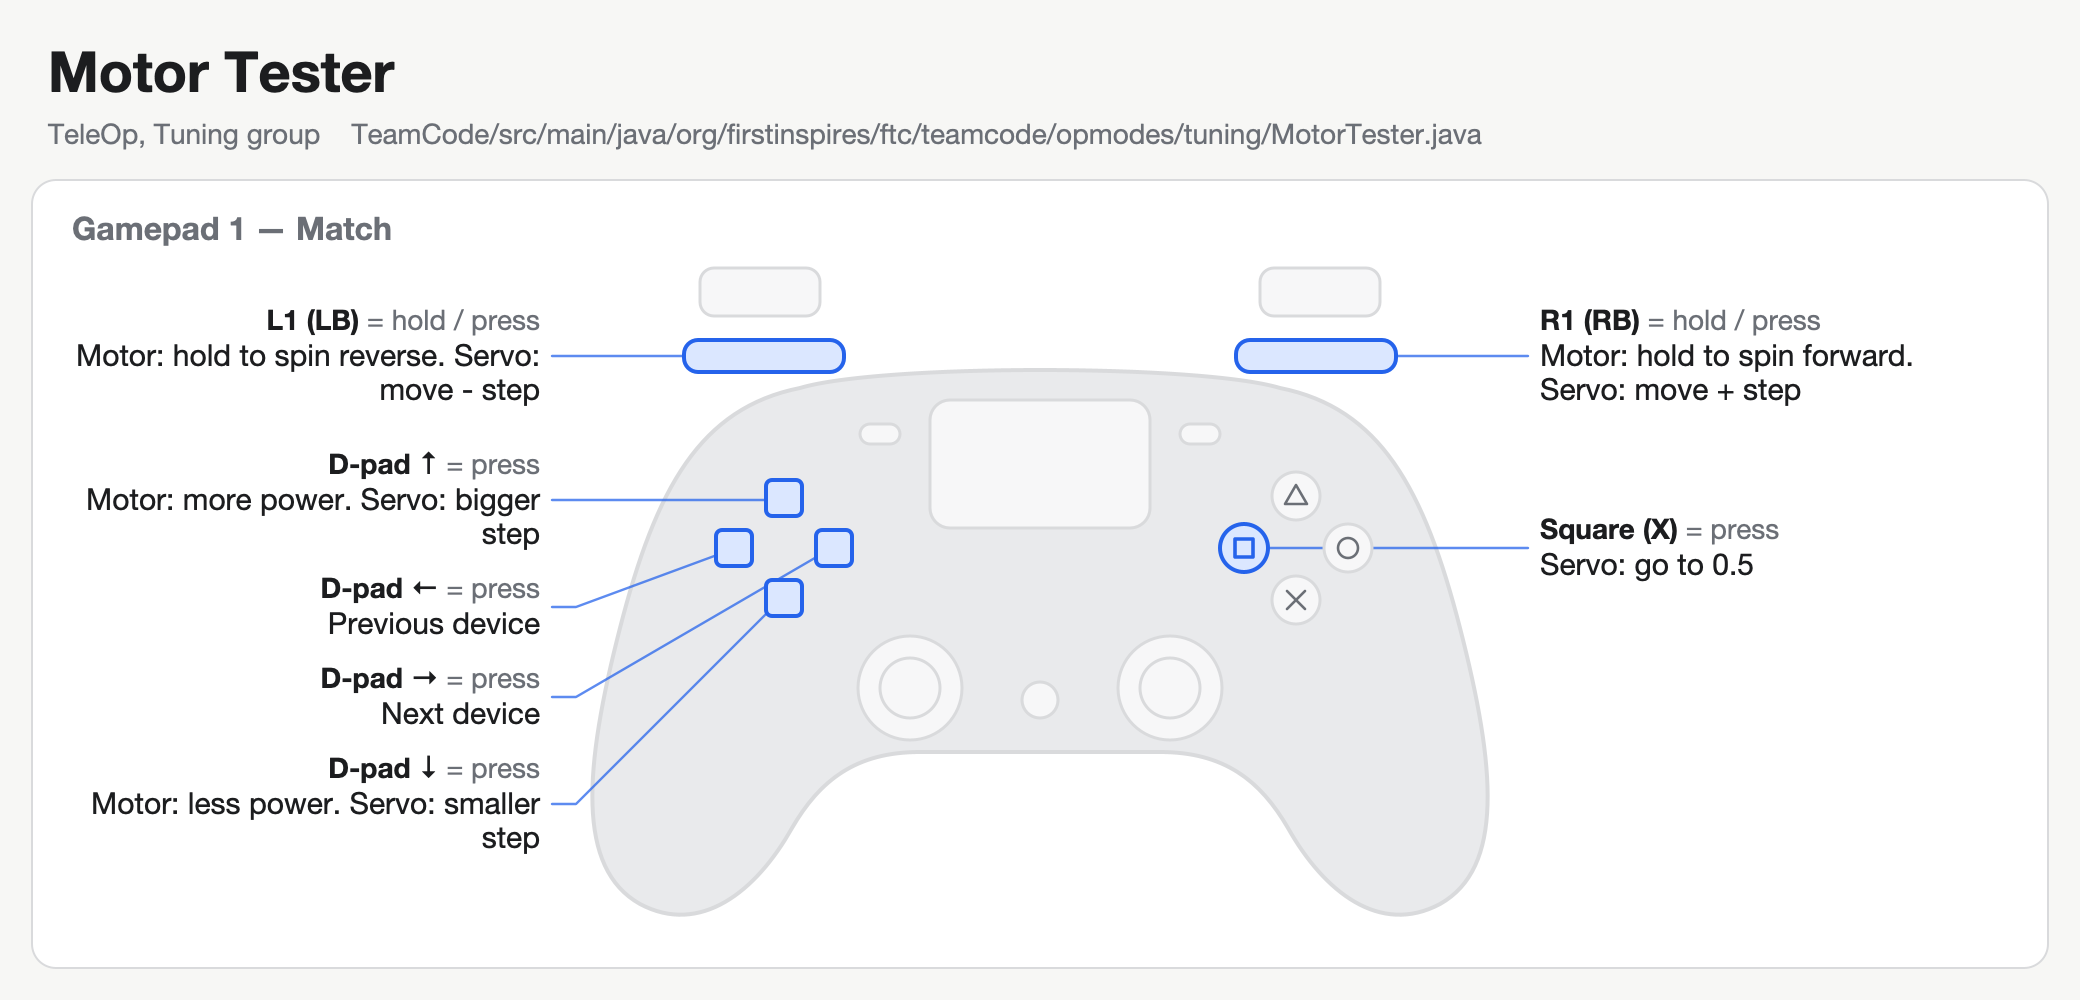
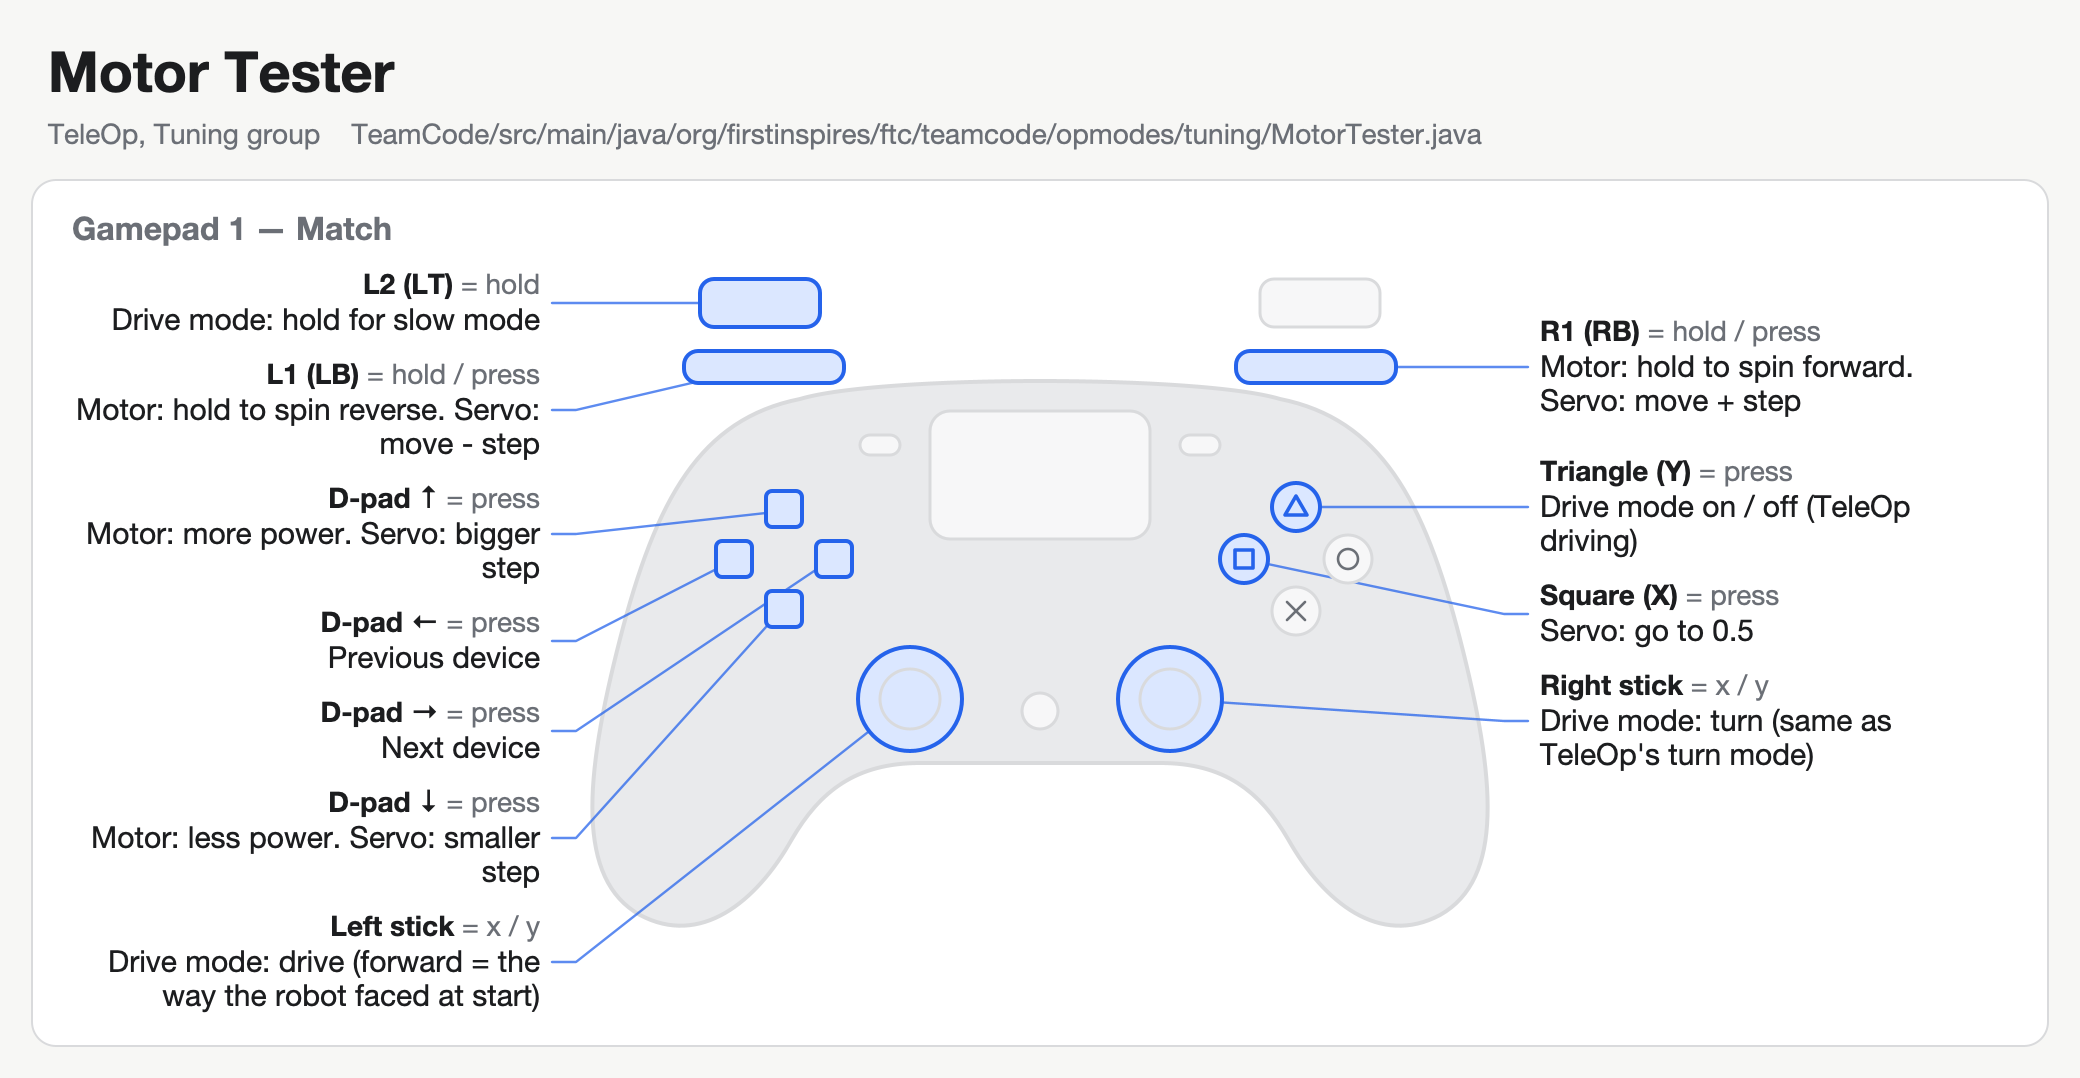
Add a TeleOp drive mode to the Motor Tester
Triangle toggles drive mode: the same field-centric / twin stick drive
and slow mode as TeleOp, with forward = the way the robot faced when
drive mode started. Triangle again stops the wheels and returns to
single-device testing.

diff --git a/TeamCode/src/main/java/org/firstinspires/ftc/teamcode/opmodes/tuning/MotorTester.java b/TeamCode/src/main/java/org/firstinspires/ftc/teamcode/opmodes/tuning/MotorTester.java
@@ -1,8 +1,15 @@
 package org.firstinspires.ftc.teamcode.opmodes.tuning;
 
+import static com.pedropathing.ivy.Scheduler.schedule;
+import static org.firstinspires.ftc.teamcode.RobotConstants.Drive.SLOW_MODE_SCALE;
+import static org.firstinspires.ftc.teamcode.RobotConstants.Drive.TURN_MODE;
+
 import com.bylazar.configurables.annotations.Configurable;
 import com.bylazar.telemetry.PanelsTelemetry;
 import com.bylazar.telemetry.TelemetryManager;
+import com.pedropathing.ivy.Scheduler;
+import com.pedropathing.math.Pose;
+import com.pedropathing.utils.Angle;
 import com.qualcomm.robotcore.eventloop.opmode.OpMode;
 import com.qualcomm.robotcore.eventloop.opmode.TeleOp;
 import com.qualcomm.robotcore.hardware.CRServo;
@@ -15,7 +22,9 @@ import com.qualcomm.robotcore.util.Range;
 
 import org.firstinspires.ftc.robotcore.external.navigation.CurrentUnit;
 import org.firstinspires.ftc.teamcode.RobotConstants;
+import org.firstinspires.ftc.teamcode.RobotConstants.Drive.TurnMode;
 import org.firstinspires.ftc.teamcode.pedro.Constants;
+import org.firstinspires.ftc.teamcode.subsystems.Drivetrain;
 
 import java.util.ArrayList;
 import java.util.Comparator;
@@ -35,7 +44,11 @@ import java.util.Set;
  *   <li>Servo: RB = position + step, LB = position - step, square (X) = go to 0.5. D-pad up / down = bigger /
  *       smaller step (0.01, 0.05, 0.1). A servo isn't moved until you first press one of these.
  * </ul>
- * In Panels (Configurables > MotorTester): power, servoPosition (type a value and the selected servo goes there),
+ * Triangle (Y) switches to drive mode: the TeleOp drive, sticks and all (left stick drives, right stick turns per
+ * RobotConstants.Drive.TURN_MODE, hold LT = slow mode). Stick forward = the way the robot faced when drive mode
+ * started. Triangle again goes back to testing single devices.
+ *
+ * <p>In Panels (Configurables > MotorTester): power, servoPosition (type a value and the selected servo goes there),
  * servoMin / servoMax (keep a mechanism from binding).
  *
  * <p>Motors are driven directly (no encoder loop, no subsystem code). Motors the code knows use their
@@ -85,6 +98,9 @@ public class MotorTester extends OpMode {
     private int selected = 0;
     private double pushedServoPosition = Double.NaN;
     private TelemetryManager panels;
+    private Drivetrain drivetrain;
+    private String drivetrainError = null; // why drive mode can't run, e.g. a drive motor missing from the config
+    private boolean driveMode = false;
 
     @Override
     public void init() {
@@ -113,6 +129,14 @@ public class MotorTester extends OpMode {
                     location(servo.getController(), servo.getPortNumber())));
         }
         devices.sort(Comparator.comparing((Device d) -> d.name, String.CASE_INSENSITIVE_ORDER));
+
+        // Built after the devices so Pedro's motor setup is the one that sticks for the drive motors (same directions)
+        Scheduler.reset();
+        try {
+            drivetrain = new Drivetrain(hardwareMap);
+        } catch (RuntimeException e) {
+            drivetrainError = e.getMessage();
+        }
 
         panels = PanelsTelemetry.INSTANCE.getTelemetry();
         if (!devices.isEmpty()) onSelected();
@@ -145,6 +169,17 @@ public class MotorTester extends OpMode {
             return;
         }
 
+        if (gamepad1.triangleWasPressed()) {
+            if (driveMode) exitDriveMode();
+            else enterDriveMode();
+        }
+        if (driveMode) {
+            drivetrain.update();
+            Scheduler.execute();
+            showDriveTelemetry();
+            return;
+        }
+
         if (gamepad1.dpadRightWasPressed()) select(selected + 1);
         if (gamepad1.dpadLeftWasPressed()) select(selected - 1);
 
@@ -156,6 +191,43 @@ public class MotorTester extends OpMode {
         }
 
         showTelemetry(device);
+    }
+
+    /** Same drive as TeleOp, with stick forward = the way the robot faces now. */
+    private void enterDriveMode() {
+        if (drivetrain == null) return; // the error shows on the device screen
+        stopSpinners();
+        drivetrain.setPose(new Pose(0, 0, 0));
+        drivetrain.start();
+        schedule(TURN_MODE == TurnMode.TWIN_STICK
+                ? drivetrain.driveTwinStick(
+                        () -> -gamepad1.left_stick_y * driveScale(),
+                        () -> -gamepad1.left_stick_x * driveScale(),
+                        () -> -gamepad1.right_stick_y,
+                        () -> -gamepad1.right_stick_x,
+                        0)
+                : drivetrain.driveFieldCentric(
+                        () -> -gamepad1.left_stick_y * driveScale(),
+                        () -> -gamepad1.left_stick_x * driveScale(),
+                        () -> -gamepad1.right_stick_x * driveScale(),
+                        0));
+        driveMode = true;
+    }
+
+    /** Pedro's stop only idles the follower, so the wheels are zeroed here too. */
+    private void exitDriveMode() {
+        Scheduler.reset();
+        drivetrain.stop();
+        stopSpinners();
+        driveMode = false;
+    }
+
+    private double driveScale() {
+        return gamepad1.left_trigger > 0.5 ? SLOW_MODE_SCALE : 1.0;
+    }
+
+    private void stopSpinners() {
+        for (Device d : devices) setPower(d, 0);
     }
 
     /** Motors and CR servos: hold to spin. */
@@ -223,6 +295,9 @@ public class MotorTester extends OpMode {
 
     private void showTelemetry(Device device) {
         panels.addLine("== MOTOR TESTER (gamepad 1) ==");
+        panels.addLine(drivetrain != null
+                ? "TRIANGLE (Y): switch to drive mode"
+                : "Drive mode unavailable: " + drivetrainError);
         panels.addLine("D-pad LEFT / RIGHT: choose device");
         if (device.kind == Kind.SERVO) {
             panels.addLine("RB: move + step   LB: move - step");
@@ -266,8 +341,31 @@ public class MotorTester extends OpMode {
         panels.update(telemetry);
     }
 
+    private void showDriveTelemetry() {
+        panels.addLine("== DRIVE MODE (gamepad 1) ==");
+        panels.addLine("TRIANGLE (Y): back to single devices");
+        panels.addLine("Left stick: drive (forward = the way the robot faced at start)");
+        panels.addLine(TURN_MODE == TurnMode.TWIN_STICK
+                ? "Right stick: point the intake that way, holds when let go"
+                : "Right stick X: turn");
+        panels.addLine("Hold LT: slow mode");
+        panels.addLine("");
+
+        Pose pose = drivetrain.getPose();
+        panels.addData("Turn mode", TURN_MODE);
+        panels.addData("Slow mode", gamepad1.left_trigger > 0.5 ? "ON (" + SLOW_MODE_SCALE + "x)" : "off");
+        panels.addData("X / Y (in)", String.format("%.1f / %.1f", pose.x(), pose.y()));
+        panels.addData("Heading (deg)", String.format("%.0f", Math.toDegrees(Angle.normalizeSigned(pose.heading()))));
+        if (TURN_MODE == TurnMode.TWIN_STICK) {
+            panels.addData("Target heading (deg)", String.format("%.0f", Math.toDegrees(drivetrain.getTargetHeading())));
+        }
+        panels.update(telemetry);
+    }
+
     @Override
     public void stop() {
-        for (Device d : devices) setPower(d, 0);
+        Scheduler.reset();
+        if (drivetrain != null) drivetrain.stop();
+        stopSpinners();
     }
 }
